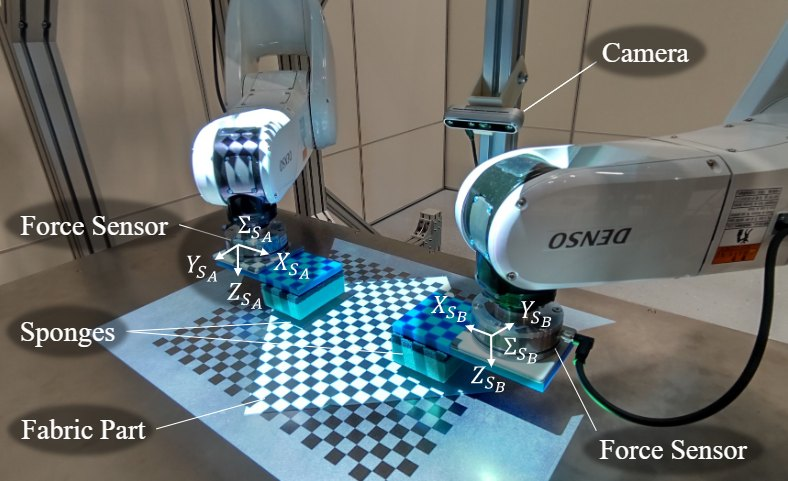
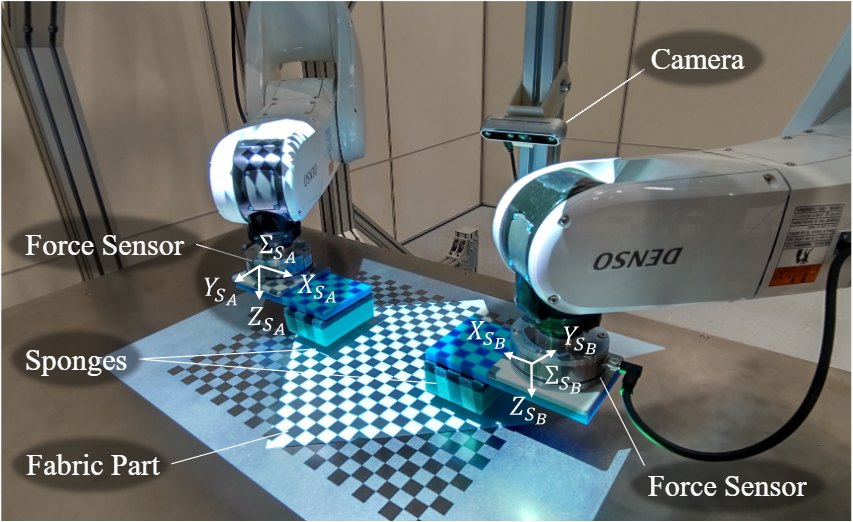
Research page: uniform list of all projects with fixed-size thumbnails; new ICRA thumbnail
Claude-Session: https://claude.ai/code/session_015WhSfbMEwUNkEpRcALsbAV

diff --git a/research.html b/research.html
@@ -48,24 +48,26 @@
 <div class="container content">
 <p class="lead">筆頭著者として取り組んだ研究を新しい順に載せています。共著の研究も含めた一覧は<a href="publications.html">業績</a>にあります。</p>
 
-<article class="feature">
-  <a class="feature-img" href="research/texture-matching.html"><img src="assets/texture-matching.jpg" width="1644" height="1019" alt="布の柄合わせに用いた双腕ロボットの実験系（論文の著者版 Fig. 1）。"></a>
-  <div class="feature-text">
+<div class="project-grid">
+<article class="card project-card has-img">
+  <a class="card-img" href="research/texture-matching.html"><img loading="lazy" src="assets/texture-matching.jpg" width="1644" height="1019" alt="布の柄合わせに用いた双腕ロボットの実験系（論文の著者版 Fig. 1）。"></a>
+  <div class="card-body">
     <span class="tag">RA-L 2026</span>
-    <h2><a href="research/texture-matching.html">双腕ロボットによる布の柄合わせ</a></h2>
+    <h3><a href="research/texture-matching.html">双腕ロボットによる布の柄合わせ</a></h3>
     <p class="cite">Transformer Driven Visual Servoing for Fabric Texture Matching Using Dual-Arm Manipulator</p>
     <p>柄のある2枚の布を、柄がそろうように重ねます。Transformerに基づくモデルで画像から位置・姿勢のずれを推定し、双腕のインピーダンス制御で布の張りを保ったまま位置合わせと配置を行います。</p>
     <p class="card-links"><a href="research/texture-matching.html">詳細</a> <a href="https://doi.org/10.1109/LRA.2025.3643335">論文</a> <a href="research/texture-matching.html#video">実験動画</a></p>
   </div>
 </article>
-
-<div class="project-grid">
-<article class="card project-card">
+<article class="card project-card has-img">
+  <div class="card-img card-img--empty" aria-hidden="true"></div>
+  <div class="card-body">
   <span class="tag">ICMA 2025</span>
   <h3><a href="research/automated-sewing.html">布の取り出しから搬出までを行う自動縫製システム</a></h3>
   <p class="cite">Robotic Sewing System for Fully Automated Fabric Picking, Stacking, Loading, Sewing, and Unloading</p>
   <p>布の取り出し、積み重ね、ミシンへの搬入、縫製、搬出を一つのシステムで続けて行います。専用治具は使わず、全体を1台のPCで制御しています。</p>
   <p class="card-links"><a href="research/automated-sewing.html">詳細</a> <a href="https://doi.org/10.1109/ICMA65362.2025.11120842">論文</a></p>
+  </div>
 </article>
 <article class="card project-card has-img">
   <a class="card-img" href="research/fixture-free-sewing.html"><img src="assets/fixture-free-sewing.jpg" width="1034" height="689" alt="治具を使わない縫製に用いた双腕ロボットの実験系。2台のロボット、パターンミシン、カメラ、照明、力センサで構成しています。" loading="lazy"></a>
@@ -78,7 +80,7 @@
   </div>
 </article>
 <article class="card project-card has-img">
-  <a class="card-img" href="research/fabric-flattening.html"><img src="assets/fabric-flattening-thumb.jpg" width="788" height="481" alt="布の位置決めと平坦化に用いた双腕ロボットの手先部分（カメラ、力センサ、スポンジ）。" loading="lazy"></a>
+  <a class="card-img" href="research/fabric-flattening.html"><img src="assets/fabric-flattening-thumb.jpg" width="853" height="522" alt="布の位置決めと平坦化に用いた双腕ロボットの手先部分（カメラ、力センサ、スポンジ）。" loading="lazy"></a>
   <div class="card-body">
   <span class="tag">ICRA 2023</span>
   <h3><a href="research/fabric-flattening.html">布の位置決めとしわ伸ばしを同時に行うビジュアルサーボ</a></h3>

diff --git a/en/research.html b/en/research.html
@@ -48,24 +48,26 @@
 <div class="container content">
 <p class="lead">These are my first-author projects, newest first. Papers I coauthored are listed under <a href="publications.html">Publications</a>.</p>
 
-<article class="feature">
-  <a class="feature-img" href="research/texture-matching.html"><img src="../assets/texture-matching.jpg" width="1644" height="1019" alt="Dual-arm setup used for fabric texture matching (Fig. 1 of the author version)."></a>
-  <div class="feature-text">
+<div class="project-grid">
+<article class="card project-card has-img">
+  <a class="card-img" href="research/texture-matching.html"><img loading="lazy" src="../assets/texture-matching.jpg" width="1644" height="1019" alt="Dual-arm setup used for fabric texture matching (Fig. 1 of the author version)."></a>
+  <div class="card-body">
     <span class="tag">RA-L 2026</span>
-    <h2><a href="research/texture-matching.html">Fabric texture matching with a dual-arm robot</a></h2>
+    <h3><a href="research/texture-matching.html">Fabric texture matching with a dual-arm robot</a></h3>
     <p class="cite">Transformer Driven Visual Servoing for Fabric Texture Matching Using Dual-Arm Manipulator</p>
     <p>Two patterned fabric pieces are stacked so that their patterns line up. A Transformer-based model estimates the pose offset from images, and dual-arm impedance control keeps the fabric taut during alignment and placement.</p>
     <p class="card-links"><a href="research/texture-matching.html">Details</a> <a href="https://doi.org/10.1109/LRA.2025.3643335">Paper</a> <a href="research/texture-matching.html#video">Video</a></p>
   </div>
 </article>
-
-<div class="project-grid">
-<article class="card project-card">
+<article class="card project-card has-img">
+  <div class="card-img card-img--empty" aria-hidden="true"></div>
+  <div class="card-body">
   <span class="tag">ICMA 2025</span>
   <h3><a href="research/automated-sewing.html">A sewing system covering fabric picking through unloading</a></h3>
   <p class="cite">Robotic Sewing System for Fully Automated Fabric Picking, Stacking, Loading, Sewing, and Unloading</p>
   <p>One system picks, stacks, loads, sews and unloads fabric pieces in sequence. It uses no dedicated fixtures and runs from a single PC.</p>
   <p class="card-links"><a href="research/automated-sewing.html">Details</a> <a href="https://doi.org/10.1109/ICMA65362.2025.11120842">Paper</a></p>
+  </div>
 </article>
 <article class="card project-card has-img">
   <a class="card-img" href="research/fixture-free-sewing.html"><img src="../assets/fixture-free-sewing.jpg" width="1034" height="689" alt="Experimental setup for fixture-free sewing: two robots, a pattern sewer, a camera, lights and force sensors." loading="lazy"></a>
@@ -78,7 +80,7 @@
   </div>
 </article>
 <article class="card project-card has-img">
-  <a class="card-img" href="research/fabric-flattening.html"><img src="../assets/fabric-flattening-thumb.jpg" width="788" height="481" alt="Close-up of the dual-arm setup for fabric positioning and flattening." loading="lazy"></a>
+  <a class="card-img" href="research/fabric-flattening.html"><img src="../assets/fabric-flattening-thumb.jpg" width="853" height="522" alt="Close-up of the dual-arm setup for fabric positioning and flattening." loading="lazy"></a>
   <div class="card-body">
   <span class="tag">ICRA 2023</span>
   <h3><a href="research/fabric-flattening.html">Visual servoing for positioning and flattening fabric</a></h3>

diff --git a/style.css b/style.css
@@ -279,9 +279,14 @@ p { margin: 0 0 1em; }
 .project-grid { display: grid; grid-template-columns: 1fr 1fr; gap: 18px; }
 .project-card { margin: 0; display: flex; flex-direction: column; }
 .project-grid { grid-template-columns: 1fr; }
-.project-card.has-img { flex-direction: row; gap: 24px; }
-.card-img { display: block; flex: 0 0 300px; margin: -18px 0 -18px -20px; }
-.card-img img { width: 100%; height: 100%; aspect-ratio: 3 / 2; object-fit: cover; }
+.project-grid { gap: 12px; }
+.project-card.has-img { flex-direction: row; align-items: flex-start; gap: 22px; padding: 16px; }
+.card-img { display: block; flex: 0 0 216px; }
+.card-img img, .card-img--empty { width: 100%; aspect-ratio: 3 / 2; object-fit: cover; border: 1px solid var(--line); }
+.card-img--empty { background: var(--bg-soft); }
+.project-card.has-img h3 { margin-top: .45em; }
+.project-card.has-img p:not(.cite):not(.card-links) { margin-bottom: .5em; }
+.project-card.has-img .card-links { margin: 0; }
 .card-body { display: flex; flex-direction: column; flex: 1; min-width: 0; }
 .project-card h3 { margin: .6em 0 .2em; font-size: 1.05rem; color: var(--text); }
 .cite { font-size: .82rem; color: var(--muted); line-height: 1.55; margin-bottom: .7em; }
@@ -377,8 +382,9 @@ ul.plain li { margin-bottom: .5em; }
   .hero h1 { font-size: 1.45rem; }
   .hero::before { background: linear-gradient(180deg, rgba(10,24,40,.55) 0%, rgba(10,24,40,.85) 100%); }
   .topics, .project-grid, .two-col { grid-template-columns: 1fr; }
-  .project-card.has-img { flex-direction: column; gap: 0; }
-  .card-img { flex: none; margin: -18px -20px 14px; }
+  .project-card.has-img { flex-direction: column; gap: 12px; }
+  .card-img { flex: none; width: 100%; }
+  .card-img--empty { display: none; }
   .home-side { grid-template-columns: 1fr; }
   .news li, dl.list div { grid-template-columns: 1fr; }
   .feature { padding: 14px; }
